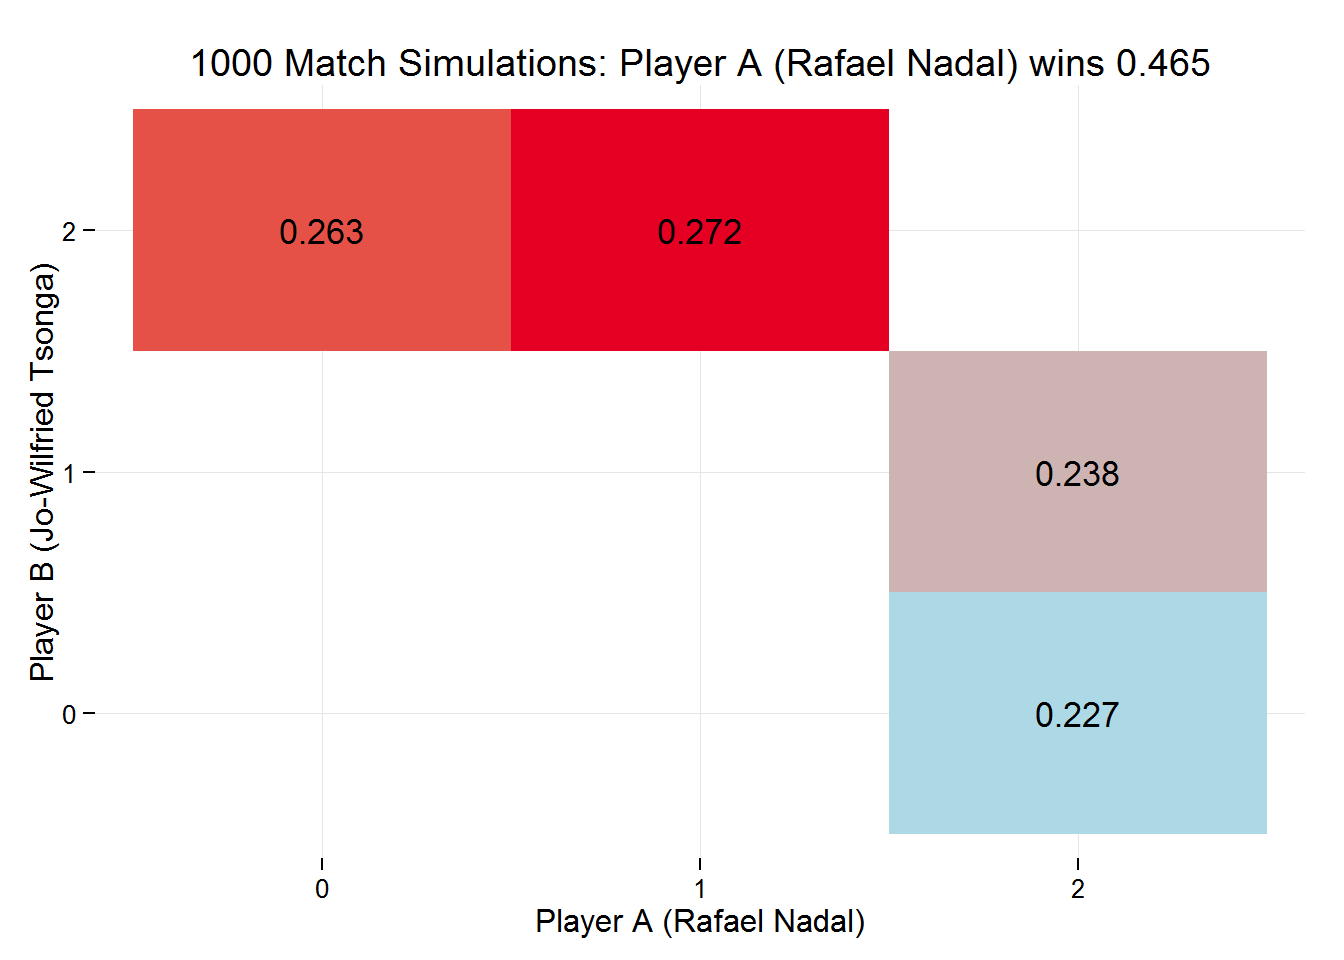
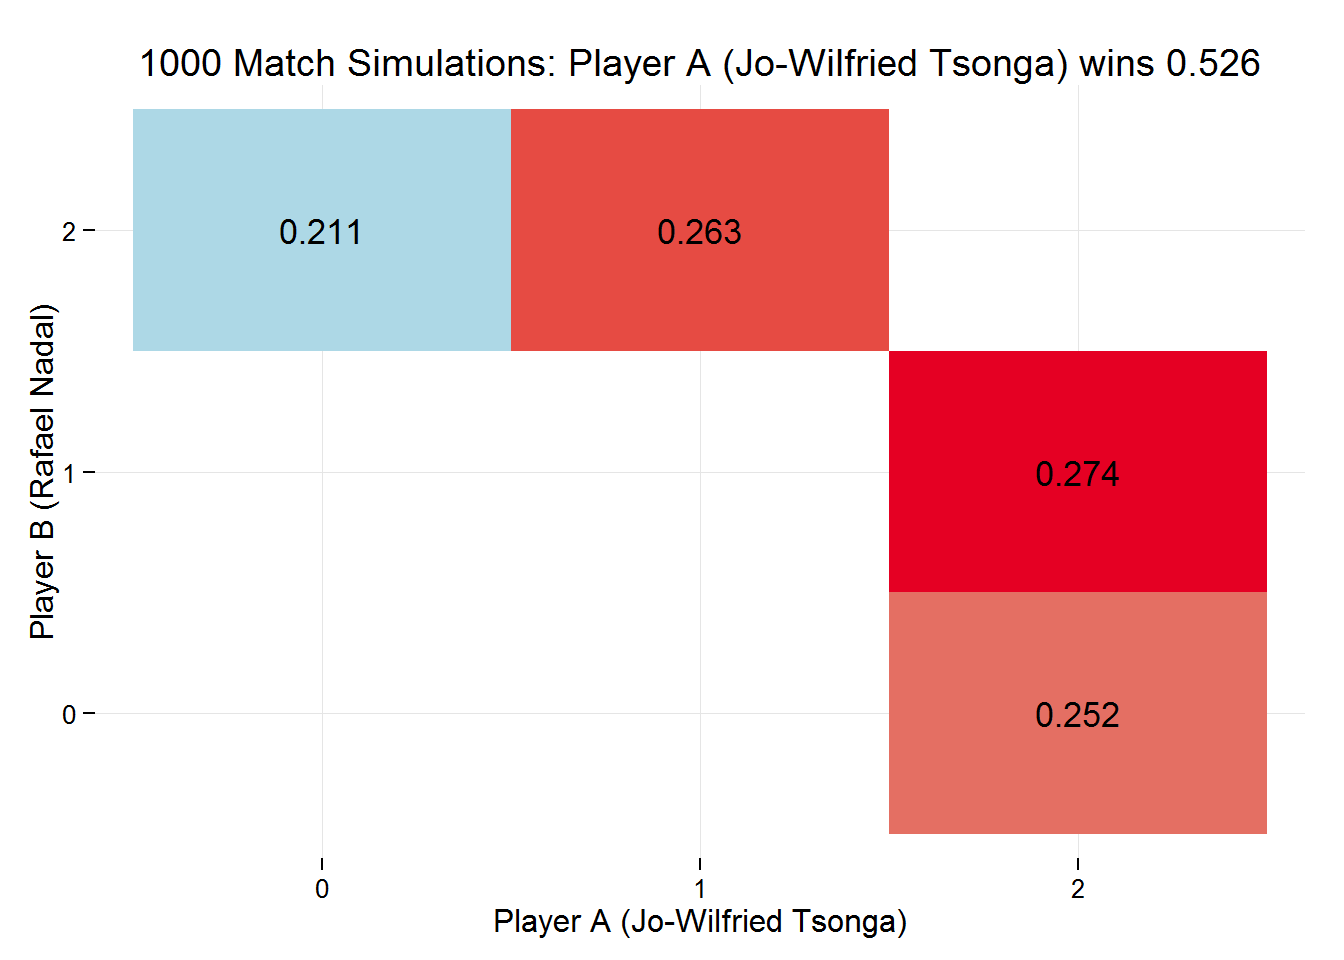
update

diff --git a/traders-conference/example/output.html b/traders-conference/example/output.html
@@ -143,8 +143,8 @@ img {
 </div>
 
 
-<p><div id="htmlwidget-7120" style="width:100%;height:auto;" class="datatables"></div>
-<script type="application/json" data-for="htmlwidget-7120">{"x":{"filter":"none","data":[["Shanghai, China","Shanghai, China","Shanghai, China","Shanghai, China","Shanghai, China","Shanghai, China","Shanghai, China","Shanghai, China","Shanghai, China","Shanghai, China","Shanghai, China","Shanghai, China","Shanghai, China","Shanghai, China","Shanghai, China","Shanghai, China","Shanghai, China","Shanghai, China","Shanghai, China","Shanghai, China","Shanghai, China","Shanghai, China","Shanghai, China","Shanghai, China"],["2015.10.11 - 2015.10.18","2015.10.11 - 2015.10.18","2015.10.11 - 2015.10.18","2015.10.11 - 2015.10.18","2015.10.11 - 2015.10.18","2015.10.11 - 2015.10.18","2015.10.11 - 2015.10.18","2015.10.11 - 2015.10.18","2015.10.11 - 2015.10.18","2015.10.11 - 2015.10.18","2015.10.11 - 2015.10.18","2015.10.11 - 2015.10.18","2015.10.11 - 2015.10.18","2015.10.11 - 2015.10.18","2015.10.11 - 2015.10.18","2015.10.11 - 2015.10.18","2015.10.11 - 2015.10.18","2015.10.11 - 2015.10.18","2015.10.11 - 2015.10.18","2015.10.11 - 2015.10.18","2015.10.11 - 2015.10.18","2015.10.11 - 2015.10.18","2015.10.11 - 2015.10.18","2015.10.11 - 2015.10.18"],["Outdoor Hard","Outdoor Hard","Outdoor Hard","Outdoor Hard","Outdoor Hard","Outdoor Hard","Outdoor Hard","Outdoor Hard","Outdoor Hard","Outdoor Hard","Outdoor Hard","Outdoor Hard","Outdoor Hard","Outdoor Hard","Outdoor Hard","Outdoor Hard","Outdoor Hard","Outdoor Hard","Outdoor Hard","Outdoor Hard","Outdoor Hard","Outdoor Hard","Outdoor Hard","Outdoor Hard"],["SF","1st Rd","1st Rd","2nd Rd","1st Rd","1st Rd","1st Rd","1st Rd","1st Rd","1st Rd","1st Rd","1st Rd","1st Rd","1st Rd","1st Rd","1st Rd","1st Rd","1st Rd","1st Rd","1st Rd","1st Rd","1st Rd","1st Rd","1st Rd"],["Rafael Nadal","Thomaz Bellucci","Tommy Haas","Albert Ramos-Vinolas","David Goffin","Richard Gasquet","Fabio Fognini","Lukasz Kubot","Pablo Cuevas","Gilles Simon","Simone Bolelli","Martin Klizan","Adrian Mannarino","Jo-Wilfried Tsonga","Marin Cilic","Nick Kyrgios","Yen-Hsun Lu","Andrey Kuznetsov","Leonardo Mayer","Ivo Karlovic","Sam Querrey","Roberto Bautista Agut","Victor Estrella Burgos","Steve Johnson"],["Jo-Wilfried Tsonga","Milos Raonic","Kevin Anderson","Roger Federer","Go Soeda","Gilles Muller","Joao Sousa","Jack Sock","Viktor Troicki","Nikoloz Basilashvili","Vasek Pospisil","Ze Zhang","John Isner","Tommy Robredo","Di Wu","Andreas Haider-Maurer","Dominic Thiem","Feliciano Lopez","Yan Bai","Jeremy Chardy","Albert Ramos-Vinolas","Guillermo Garcia-Lopez","Donald Young","Andreas Seppi"],[0.72,0.71,0.74,0.67,0.71,0.74,0.67,0.69,0.7,0.7,0.7,0.7,0.69,0.77,0.76,0.75,0.7,0.7,0.74,0.83,0.78,0.68,0.68,0.75],[0.77,0.81,0.76,0.77,0.67,0.77,0.69,0.75,0.73,0.65,0.76,0.66,0.78,0.7,0.6,0.73,0.73,0.76,0.66,0.74,0.67,0.69,0.67,0.7],[0.479,0.1,0.293,0.089,0.742,0.474,0.337,0.236,0.463,0.614,0.415,0.697,0.085,0.773,0.974,0.781,0.34,0.216,0.871,0.9,0.831,0.637,0.659,0.734]],"container":"<table class=\"display\">\n  <thead>\n    <tr>\n      <th>venue</th>\n      <th>tourney_dates</th>\n      <th>surface</th>\n      <th>rd</th>\n      <th>playerA</th>\n      <th>playerB</th>\n      <th>pA</th>\n      <th>pB</th>\n      <th>winA</th>\n    </tr>\n  </thead>\n</table>","options":{"columnDefs":[{"className":"dt-right","targets":[6,7,8]}],"order":[],"autoWidth":false,"orderClasses":false,"rowCallback":"function(row, data) {\nDTWidget.formatRound(this, row, data, 4, 2);\nDTWidget.formatRound(this, row, data, 5, 2);\nDTWidget.formatRound(this, row, data, 6, 2);\nDTWidget.formatRound(this, row, data, 8, 2);\nDTWidget.formatRound(this, row, data, 9, 2);\nDTWidget.formatRound(this, row, data, 10, 2);\nDTWidget.formatRound(this, row, data, 11, 2);\n}"}},"evals":["options.rowCallback"]}</script></p>
+<p><div id="htmlwidget-7815" style="width:100%;height:auto;" class="datatables"></div>
+<script type="application/json" data-for="htmlwidget-7815">{"x":{"filter":"none","data":[["Shanghai, China","Shanghai, China","Shanghai, China","Shanghai, China","Shanghai, China","Shanghai, China","Shanghai, China","Shanghai, China","Shanghai, China","Shanghai, China","Shanghai, China","Shanghai, China","Shanghai, China","Shanghai, China","Shanghai, China","Shanghai, China","Shanghai, China","Shanghai, China","Shanghai, China","Shanghai, China","Shanghai, China","Shanghai, China","Shanghai, China","Shanghai, China","Shanghai, China","Shanghai, China"],["2015.10.11 - 2015.10.18","2015.10.11 - 2015.10.18","2015.10.11 - 2015.10.18","2015.10.11 - 2015.10.18","2015.10.11 - 2015.10.18","2015.10.11 - 2015.10.18","2015.10.11 - 2015.10.18","2015.10.11 - 2015.10.18","2015.10.11 - 2015.10.18","2015.10.11 - 2015.10.18","2015.10.11 - 2015.10.18","2015.10.11 - 2015.10.18","2015.10.11 - 2015.10.18","2015.10.11 - 2015.10.18","2015.10.11 - 2015.10.18","2015.10.11 - 2015.10.18","2015.10.11 - 2015.10.18","2015.10.11 - 2015.10.18","2015.10.11 - 2015.10.18","2015.10.11 - 2015.10.18","2015.10.11 - 2015.10.18","2015.10.11 - 2015.10.18","2015.10.11 - 2015.10.18","2015.10.11 - 2015.10.18","2015.10.11 - 2015.10.18","2015.10.11 - 2015.10.18"],["Outdoor Hard","Outdoor Hard","Outdoor Hard","Outdoor Hard","Outdoor Hard","Outdoor Hard","Outdoor Hard","Outdoor Hard","Outdoor Hard","Outdoor Hard","Outdoor Hard","Outdoor Hard","Outdoor Hard","Outdoor Hard","Outdoor Hard","Outdoor Hard","Outdoor Hard","Outdoor Hard","Outdoor Hard","Outdoor Hard","Outdoor Hard","Outdoor Hard","Outdoor Hard","Outdoor Hard","Outdoor Hard","Outdoor Hard"],["SF","SF","SF","1st Rd","1st Rd","2nd Rd","1st Rd","1st Rd","1st Rd","1st Rd","1st Rd","1st Rd","1st Rd","1st Rd","1st Rd","1st Rd","1st Rd","1st Rd","1st Rd","1st Rd","1st Rd","1st Rd","1st Rd","1st Rd","1st Rd","1st Rd"],["Jo-Wilfried Tsonga","Novak Djokovic","Rafael Nadal","Thomaz Bellucci","Tommy Haas","Albert Ramos-Vinolas","David Goffin","Richard Gasquet","Fabio Fognini","Lukasz Kubot","Pablo Cuevas","Gilles Simon","Simone Bolelli","Martin Klizan","Adrian Mannarino","Jo-Wilfried Tsonga","Marin Cilic","Nick Kyrgios","Yen-Hsun Lu","Andrey Kuznetsov","Leonardo Mayer","Ivo Karlovic","Sam Querrey","Roberto Bautista Agut","Victor Estrella Burgos","Steve Johnson"],["Rafael Nadal","Andy Murray","Jo-Wilfried Tsonga","Milos Raonic","Kevin Anderson","Roger Federer","Go Soeda","Gilles Muller","Joao Sousa","Jack Sock","Viktor Troicki","Nikoloz Basilashvili","Vasek Pospisil","Ze Zhang","John Isner","Tommy Robredo","Di Wu","Andreas Haider-Maurer","Dominic Thiem","Feliciano Lopez","Yan Bai","Jeremy Chardy","Albert Ramos-Vinolas","Guillermo Garcia-Lopez","Donald Young","Andreas Seppi"],[0.77,0.73,0.72,0.71,0.74,0.67,0.71,0.74,0.67,0.69,0.7,0.7,0.7,0.7,0.69,0.77,0.76,0.75,0.7,0.7,0.74,0.83,0.78,0.68,0.68,0.75],[0.72,0.74,0.77,0.81,0.76,0.77,0.67,0.77,0.69,0.75,0.73,0.65,0.76,0.66,0.78,0.7,0.6,0.73,0.73,0.76,0.66,0.74,0.67,0.69,0.67,0.7],[0.515,0.628,0.479,0.1,0.293,0.089,0.742,0.474,0.337,0.236,0.463,0.614,0.415,0.697,0.085,0.773,0.974,0.781,0.34,0.216,0.871,0.9,0.831,0.637,0.659,0.734]],"container":"<table class=\"display\">\n  <thead>\n    <tr>\n      <th>venue</th>\n      <th>tourney_dates</th>\n      <th>surface</th>\n      <th>rd</th>\n      <th>playerA</th>\n      <th>playerB</th>\n      <th>pA</th>\n      <th>pB</th>\n      <th>winA</th>\n    </tr>\n  </thead>\n</table>","options":{"columnDefs":[{"className":"dt-right","targets":[6,7,8]}],"order":[],"autoWidth":false,"orderClasses":false,"rowCallback":"function(row, data) {\nDTWidget.formatRound(this, row, data, 4, 2);\nDTWidget.formatRound(this, row, data, 5, 2);\nDTWidget.formatRound(this, row, data, 6, 2);\nDTWidget.formatRound(this, row, data, 8, 2);\nDTWidget.formatRound(this, row, data, 9, 2);\nDTWidget.formatRound(this, row, data, 10, 2);\nDTWidget.formatRound(this, row, data, 11, 2);\n}"}},"evals":["options.rowCallback"]}</script></p>
 
 
 </div>

diff --git a/traders-conference/example/todays-matches.html b/traders-conference/example/todays-matches.html
@@ -164,13 +164,13 @@ img {
 </div>
 
 
-<p>Where available this page will document a couple of randomly selected games scheduled to play today, 2015-10-16. Using the data returned by the various scripts found in the repo <a href="https://github.com/durtal/talks/tree/gh-pages/traders-conference/example/R">here</a>, and walked through in the other pages on this site. There are <strong>1</strong> scheduled:</p>
-<div id="rafael-nadal-vs-jo-wilfried-tsonga" class="section level3">
-<h3>Rafael Nadal vs Jo-Wilfried Tsonga</h3>
+<p>Where available this page will document a couple of randomly selected games scheduled to play today, 2015-10-17. Using the data returned by the various scripts found in the repo <a href="https://github.com/durtal/talks/tree/gh-pages/traders-conference/example/R">here</a>, and walked through in the other pages on this site. There are <strong>2</strong> scheduled:</p>
+<div id="jo-wilfried-tsonga-vs-rafael-nadal" class="section level3">
+<h3>Jo-Wilfried Tsonga vs Rafael Nadal</h3>
 <div class="row">
 <div class="col-sm-6">
-<p>Player A, <strong>Rafael Nadal</strong> wins <strong>72</strong> % of his first serve points, <strong>57</strong>% of his second serve points, and his first serve in is <strong>69</strong>%.</p>
-<p>Player B, <strong>Jo-Wilfried Tsonga</strong> wins <strong>77</strong> % of his first serve points, <strong>53</strong>% of his second serve points, and his first serve in is <strong>63</strong>%.</p>
+<p>Player A, <strong>Jo-Wilfried Tsonga</strong> wins <strong>77</strong> % of his first serve points, <strong>53</strong>% of his second serve points, and his first serve in is <strong>63</strong>%.</p>
+<p>Player B, <strong>Rafael Nadal</strong> wins <strong>72</strong> % of his first serve points, <strong>57</strong>% of his second serve points, and his first serve in is <strong>69</strong>%.</p>
 <pre class="sourceCode r"><code class="sourceCode r">match_data &lt;-<span class="st"> </span><span class="kw">simMatches</span>(<span class="dt">n =</span> <span class="dv">1000</span>,
      <span class="dt">pA =</span> todays_matches$pA[ind[<span class="dv">1</span>]],
      <span class="dt">p2A =</span> todays_matches$p2A[ind[<span class="dv">1</span>]],
